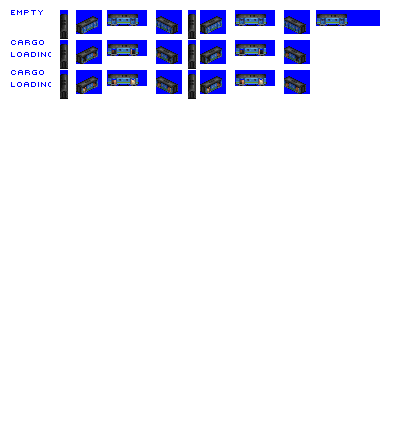
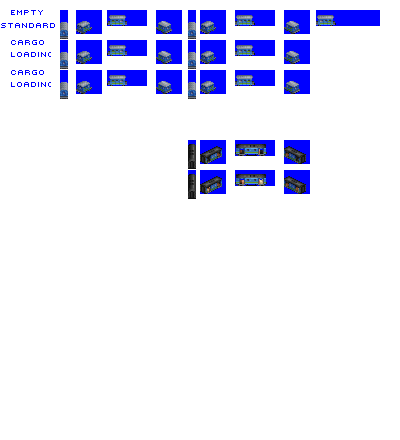
Change: new sprites for gen 1 antelope pax and mail cars (Supermop)

diff --git a/src/vehicles/mail_cars.py b/src/vehicles/mail_cars.py
@@ -265,8 +265,8 @@ def main():
 
     consist.add_unit(MailCar(consist = consist,
                             capacity_mail = 20,
-                            weight = 18,
-                            vehicle_length = 8))
+                            weight = 14,
+                            vehicle_length = 5))
 
     consist.add_model_variant(intro_date=0,
                            end_date=global_constants.max_game_date,

diff --git a/src/vehicles/passenger_cars.py b/src/vehicles/passenger_cars.py
@@ -277,8 +277,8 @@ def main():
 
     consist.add_unit(Wagon(consist = consist,
                             capacity_pax = 20,
-                            weight = 18,
-                            vehicle_length = 8))
+                            weight = 16,
+                            vehicle_length = 5))
 
     consist.add_model_variant(intro_date=0,
                            end_date=global_constants.max_game_date,
